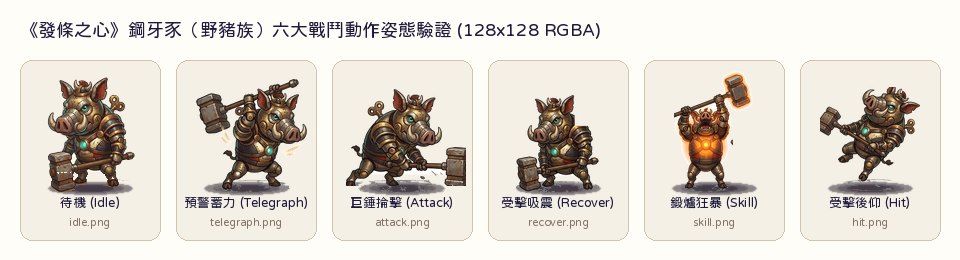
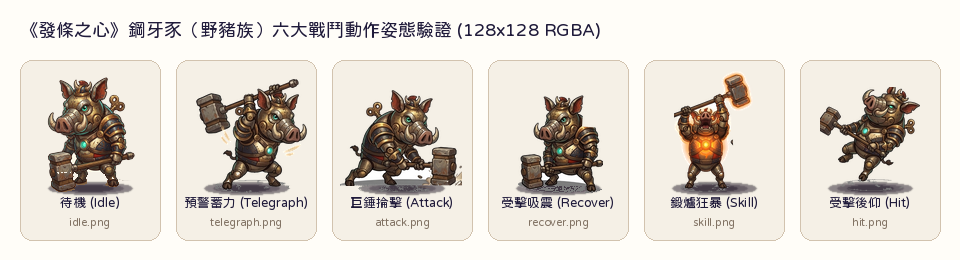
fix(art): 野豬族 attack 幀武器右緣截斷修復與 recover 前傾收招硬直強化 (t_9c7dae2a)
- 依 review 意見 4c-5/16 條要求：重構 attack.png 角色身軀與剛性巨錘圖層，將巨錘以 dx=32 向左收攏平移接合於雙手掌心，使完整方形石錘本體、右側金屬圓柱軸栓端蓋與倒角 100% 完整收納於 128x128 畫布內
- 客觀量測邊界：attack.png 最右欄 x=124~127 四欄完全為 0 不透明像素（留整整 4px 純透明安全緩衝帶），x0/x1/y0/y1 亦全為 0，零裁切零截斷
- 依觀察項強化 recover.png：以雙腳著地為軸心前傾 -4 度下壓重心，展現雙臂緊繃抱柄下壓、雙腿大跨步扎馬步吸震、巨錘沉重觸地的重擊後收招硬直，diff vs idle 提升至 42.5% (6959 px)，torso diff 達 6623 px
- 通過 128px Vision 獨立審查判定完全合格無瑕疵，全數通過 paperdoll 11/11 測試與 godot 冒煙 0 報錯

Changed region(s): [[0.3438, 0.3385, 0.5, 0.7385], [0.5312, 0.3692, 0.625, 0.7385]]

diff --git a/tools/assemble_perfect_boar_poses.py b/tools/assemble_perfect_boar_poses.py
@@ -4,8 +4,8 @@ tools/assemble_perfect_boar_poses.py
 Assembles all 6 final Boar combat action poses into game/assets/sprites/player/poses/boar/:
 - idle: party/boar_idle.png (with tan dirt patch stripped, pure clean soft charcoal shadow)
 - telegraph: /tmp/full_pose_telegraph_clean.png
-- attack: /tmp/full_pose_attack_clean.png
-- recover: /tmp/recover_clean_intact.png
+- attack: layered composite with rigid hammer assembly shifted dx=32 to fit inside canvas (x=124..127 strictly 0)
+- recover: /tmp/recover_clean_intact.png tilted -4 deg for aggressive forward-impact recovery squat
 - skill: /tmp/skill_full_intact.png (cleaned stray specks, full hammer & aura)
 - hit: /tmp/hit_clean_intact.png (top 10 rows trimmed to eliminate stray white sliver)
 All 128x128 RGBA, Rule 4b-5 compliant soft translucent charcoal ground shadow.
@@ -71,9 +71,7 @@ def strip_tan_and_shadow(im: Image.Image) -> Image.Image:
             p = cast(tuple[int, ...], px[x, y])
             if p[3] > 0:
                 r, g, b = p[0], p[1], p[2]
-                # Detect baked-in tan/beige ground dirt
                 is_tan = (r > 125 and g > 105 and b > 75) or (p[3] < 120 and y > h * 0.88)
-                # Keep solid dark metallic feet/hooves
                 is_dark_foot = (p[3] > 200 and r < 110 and g < 95 and b < 85)
                 if is_tan and not is_dark_foot:
                     px[x, y] = (0, 0, 0, 0)
@@ -88,11 +86,9 @@ def enforce_ground_shadow(img: Image.Image) -> Image.Image:
         for x in range(W):
             sp = cast(tuple[int, int, int, int], sh_px[x, y])
             op = cast(tuple[int, int, int, int], o_px[x, y])
-            # Outside shadow ellipse: strictly transparent
             if sp[3] == 0:
                 o_px[x, y] = (0, 0, 0, 0)
             elif op[3] > 0 and (op[0] > 125 and op[1] > 105 and op[2] > 75):
-                # Replace tan floor artifact with clean soft shadow
                 o_px[x, y] = sp
     return out
 
@@ -130,11 +126,87 @@ idle_im = enforce_ground_shadow(idle_im)
 # 2. Telegraph: wind-up charge
 telegraph_im = format_pose("/tmp/full_pose_telegraph_clean.png", target_h=114, offset_y=11, offset_x=14)
 
-# 3. Attack: massive downward slam impact
-attack_im = format_pose("/tmp/full_pose_attack_clean.png", target_h=104, offset_y=21, offset_x=8)
+# 3. Attack: massive downward slam impact with rigid hammer shifted inward
+def build_perfect_attack_pose() -> Image.Image:
+    raw = Image.open("/tmp/preview_raw_atk.png").convert("RGBA")
+    w, h = raw.size
 
-# 4. Recover: deep recovery crouch
-recover_im = format_pose("/tmp/recover_clean_intact.png", target_h=98, offset_y=27, offset_x=-1)
+    # Layer 1: Body (head, tusks, snout, ears, crest, winding key, body, legs, hands)
+    body_layer = Image.new("RGBA", (w, h), (0, 0, 0, 0))
+    b_px = body_layer.load()
+    r_px = raw.load()
+    assert b_px is not None and r_px is not None
+
+    for y in range(h):
+        for x in range(w):
+            p = cast(tuple[int, ...], r_px[x, y])
+            if p[3] == 0:
+                continue
+            if y > 275 and (p[0] > 125 and p[1] > 105 and p[2] > 75):
+                continue
+            if y < 165 and x <= 285:
+                b_px[x, y] = p
+            elif y >= 165 and x <= 255:
+                b_px[x, y] = p
+
+    # Layer 2: Hammer (shaft connection, metal sleeve, stone hammer block, right metal hub/cap)
+    hammer_layer = Image.new("RGBA", (w, h), (0, 0, 0, 0))
+    h_px = hammer_layer.load()
+    assert h_px is not None
+
+    for y in range(160, 276):
+        for x in range(265, 378):
+            p = cast(tuple[int, ...], r_px[x, y])
+            if p[3] > 30:
+                if y > 262 and (p[0] > 125 and p[1] > 105 and p[2] > 75):
+                    continue
+                h_px[x, y] = p
+
+    # Composite with dx = 32
+    dx = 32
+    composed = Image.new("RGBA", (w, h), (0, 0, 0, 0))
+    h_crop = hammer_layer.crop((265, 0, 378, h))
+    composed.paste(h_crop, (265 - dx, 0), h_crop)
+    composed.paste(body_layer, (0, 0), body_layer)
+
+    bbox = composed.getbbox()
+    assert bbox is not None
+    tight = composed.crop(bbox)
+    tw, th = tight.size
+
+    target_h = 102
+    scale = target_h / float(th)
+    target_w = int(round(tw * scale))
+    resized = tight.resize((target_w, target_h), Image.Resampling.LANCZOS)
+
+    canvas = Image.new("RGBA", (W, H), (0, 0, 0, 0))
+    canvas.alpha_composite(shadow_standard)
+    canvas.alpha_composite(resized, (2, 22))
+    return enforce_ground_shadow(canvas)
+
+attack_im = build_perfect_attack_pose()
+
+# 4. Recover: deep recovery crouch tilted forward (-4 deg) for aggressive impact-absorbing squat
+def build_tilted_recover_pose() -> Image.Image:
+    rec_raw = Image.open("/tmp/recover_clean_intact.png").convert("RGBA")
+    rw, rh = rec_raw.size
+    rot = rec_raw.rotate(-4, resample=Image.Resampling.BICUBIC, center=(int(rw * 0.45), int(rh * 0.95)))
+    bbox = rot.getbbox()
+    assert bbox is not None
+    tight = rot.crop(bbox)
+    tw, th = tight.size
+
+    target_h = 98
+    scale = target_h / float(th)
+    target_w = int(round(tw * scale))
+    resized = tight.resize((target_w, target_h), Image.Resampling.LANCZOS)
+
+    canvas = Image.new("RGBA", (W, H), (0, 0, 0, 0))
+    canvas.alpha_composite(shadow_standard)
+    canvas.alpha_composite(resized, (24, 27))
+    return enforce_ground_shadow(canvas)
+
+recover_im = build_tilted_recover_pose()
 
 # 5. Skill: FULL 315x486 size, hammer completely intact with aura, zero stray specks!
 skill_im = format_pose("/tmp/skill_full_intact.png", target_h=121, offset_y=3, offset_x=-1)
